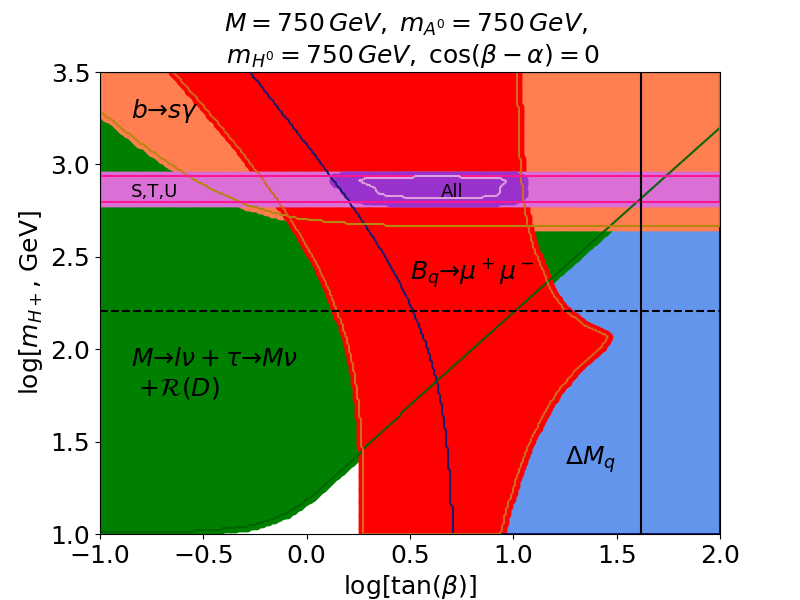
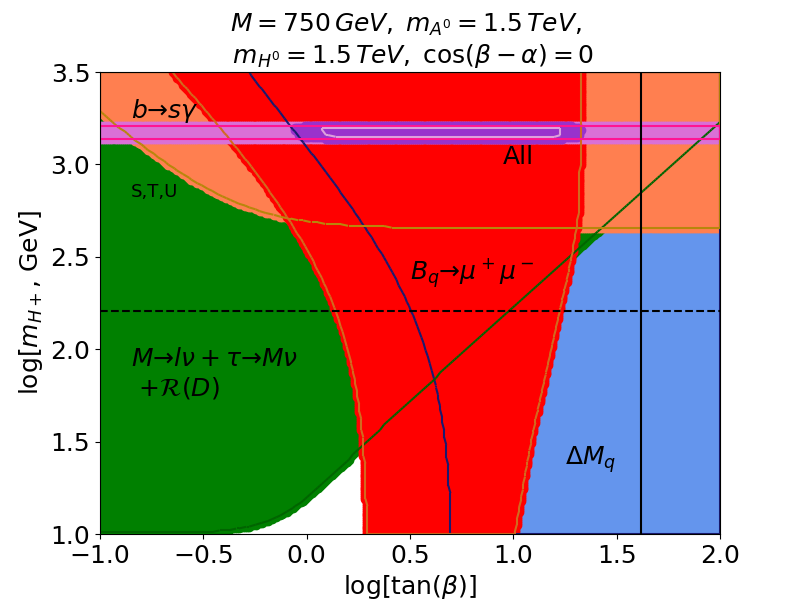
ups

diff --git a/global/functions.py b/global/functions.py
@@ -1,5 +1,6 @@
 from __future__ import division 
 import numpy as np
+from rdstarring import *
 from fitting import *
 from scipy.integrate import quad
 
@@ -676,10 +677,10 @@ def itera_global(
         bpls_exp,bpls_exp_error,dpls_exp,dpls_exp_error,dspls_exp,dspls_exp_error,
         bpmu,bpmu_err,dsmu,dsmu_err,bmix_exp,bmix_exp_error,bmixs_exp,bmixs_exp_error,
         kpi_exp,kpi_exp_error,tkpi_exp,tkpi_exp_error,
-        bsmu_exp,bsmu_exp_err,bdmu_exp,bdmu_exp_err,rd_exp,rd_exp_err,
+        bsmu_exp,bsmu_exp_err,bdmu_exp,bdmu_exp_err,rd_exp,rd_exp_err,rdst_exp,rdst_exp_err,
         gams_exp,gams_exp_error,gamc_exp,gamc_exp_error,gamu,gamu_err,
         mu,mu_err,md,md_err,mc,mc_err,ms,ms_err,mb,mb_err,mt,mt_err,mW,mW_err,
-        mbpls,mbpls_err,mdpls,mdpls_err,mdspls,mdspls_err,mbd,mbd_err,mbs,mbs_err,
+        mbpls,mbpls_err,mdpls,mdpls_err,mdspls,mdspls_err,mbd,mbd_err,mbs,mbs_err,mdst,mdst_err,
         mK,mK_err,mpi,mpi_err,mtau,mtau_err,mmu,mmu_err,
         Vud,Vud_err,Vus,Vus_err,Vub,Vub_err,Vcd,Vcd_err,Vcs,Vcs_err,Vcb,Vcb_err,Vtd,Vtd_err,Vts,Vts_err,Vtb,Vtb_err,
         etaB,etaB_err,f2Bd,f2Bd_err,f2Bs,f2Bs_err,fBs,fBs_err,Bbd,Bbd_err,BBs,BBs_err,
@@ -687,7 +688,7 @@ def itera_global(
         fKpi,fKpi_err,delt_kpi,delt_kpi_err,delt_tau,delt_tau_err,
         tbpls,tbpls_err,tdpls,tdpls_err,tdspls,tdspls_err,tbd,tbd_err,tbs,tbs_err,
         mub,hi,a,A0,ac,at,a_s,B0,bc,bt,bs,delt_mc,delt_mt,delt_as,alp_EM,C,C_err,
-        p,p_err,d,d_err,
+        p,p_err,ps,ps_err,d,d_err,r01,r01_err,r11,r11_err,r21,r21_err,
         delta_b,delta_d,
         wangle,wangle_err,lam_QCD,QCD_err,higgs,higgs_err,vev,vev_err,
         SOblique,SOblique_err,TOblique,TOblique_err,UOblique,UOblique_err,mZ,mZ_err):
@@ -826,8 +827,9 @@ def itera_global(
 
     ##### R(D) #####
     rd_exp_up,rd_exp_down = rd_exp+rd_exp_err[0],rd_exp+rd_exp_err[1]
-    av_rd = 0.5*(rd_exp_up+rd_exp_down)
-    sige_rd = sigma*(rd_exp_up-av_rd)
+    rds_exp_up,rds_exp_down = rdst_exp+rdst_exp_err[0],rdst_exp+rdst_exp_err[1]
+    av_rd,av_rds = 0.5*(rd_exp_up+rd_exp_down),0.5*(rds_exp_up+rds_exp_down)
+    sige_rd,sige_rds = sigma*(rd_exp_up-av_rd),sigma*(rds_exp_up-av_rds)
 
     #Oblique
     SOblique_up,SOblique_down=SOblique+SOblique_err[0],SOblique+SOblique_err[1]
@@ -919,12 +921,17 @@ def itera_global(
             bd_bool = ((av_bdmu >= mid_bdmu and mid_bdmu+sig_bdmu >= av_bdmu-sige_bdmu) or (av_bdmu <= mid_bdmu and mid_bdmu-sig_bdmu <= av_bdmu+sige_bdmu)) 
 
             ##### R(D) #####
+            expect_rds_up,expect_rds_down = error_rds(mbd,mbd_err,mdst,mdst_err,ps,ps_err,r01,r01_err,r11,r11_err,r21,r21_err,Vcb,Vcb_err,mmu,mmu_err,mtau,mtau_err,vev,vev_err,mc,mc_err,mb,mb_err,j,i)
+#            expect_rd_up,expect_rd_down = error_rdn(mbd,mbd_err,mdpls,mdpls_err,p,p_err,d,d_err,Vcb,Vcb_err,mmu,mmu_err,mtau,mtau_err,vev,vev_err,mc,mc_err,mb,mb_err,j,i)
             expect_rd = bsemi(mc,mb,mbd,mdpls,p,d,i,j)
             expect_rd_err = error_bsemi(mc,mc_err,mb,mb_err,mbd,mbd_err,mdpls,mdpls_err,p,p_err,d,d_err,i,j)
             expect_rd_up,expect_rd_down=expect_rd+expect_rd_err[0],expect_rd-expect_rd_err[1]
             mid_rd = 0.5*(expect_rd_up+expect_rd_down)
+            mid_rds = 0.5*(expect_rds_up+expect_rds_down)
             sig_rd = sigma*(expect_rd_up-mid_rd)
+            sig_rds = sigma*(expect_rds_up-mid_rds)
             rd_bool = ((av_rd >= mid_rd and mid_rd+sig_rd >= av_rd-sige_rd) or (av_rd <= mid_rd and mid_rd-sig_rd <= av_rd+sige_rd)) 
+#            rds_bool = ((av_rds >= mid_rds and mid_rds+sig_rds >= av_rds-sige_rds) or (av_rds <= mid_rds and mid_rds-sig_rds <= av_rds+sige_rds)) 
 
             #Oblique
             expect_SOblique=S2HDMofAlphaBeta (i,mA0,mH0,alph,np.arctan(j),mW,mZ,higgs,Gf,alp_EM,wangle)
@@ -949,12 +956,12 @@ def itera_global(
             UOblique_bool=((av_UOblique>=mid_UOblique and mid_UOblique>=av_UOblique-sige_UOblique) or (av_UOblique<=mid_UOblique and mid_UOblique<=av_UOblique+sige_UOblique))
 
             ##### (SEMI-)LEPTONICS #####
-            if bpls_bool and dpls_bool and dspls_bool and kpi_bool and tkpi_bool and bpmu_bool and dsmu_bool and rd_bool:
+            if bpls_bool and dpls_bool and dspls_bool and kpi_bool and tkpi_bool and bpmu_bool and dsmu_bool and rd_bool:# and rds_bool:
                 i_log, j_log = np.log10(i), np.log10(j)
                 mHl_loc = np.append(mHl_loc,i_log)
                 tanbl_loc = np.append(tanbl_loc,j_log)
-                chi_lij = chisq_simp([av_b,av_d,av_ds,av_k,av_t,av_bm,av_dm,av_rd],[mid_b,mid_d,mid_ds,mid_k,mid_t,mid_bmu,mid_dm,mid_rd],[sige_b,sige_d,sige_ds,sige_k,sige_t,sige_bm,sige_dm,sige_rd],[sig_b,sig_d,sig_ds,sig_k,sig_t,sig_bmu,sig_dm,sig_rd])
-#                chi_lij = chisq_simp([av_b,av_d,av_ds,av_k,av_t,av_bm,av_dm],[mid_b,mid_d,mid_ds,mid_k,mid_t,mid_bmu,mid_dm],[sige_b,sige_d,sige_ds,sige_k,sige_t,sige_bm,sige_dm],[sig_b,sig_d,sig_ds,sig_k,sig_t,sig_bmu,sig_dm])
+                chi_lij = chisq_simp([av_b,av_d,av_ds,av_k,av_t,av_bm,av_dm,av_rd,av_rds],[mid_b,mid_d,mid_ds,mid_k,mid_t,mid_bmu,mid_dm,mid_rd,mid_rds],[sige_b,sige_d,sige_ds,sige_k,sige_t,sige_bm,sige_dm,sige_rd,sige_rds],[sig_b,sig_d,sig_ds,sig_k,sig_t,sig_bmu,sig_dm,sig_rd,sig_rds])
+                #chi_lij = chisq_simp([av_b,av_d,av_ds,av_k,av_t,av_bm,av_dm,av_rd],[mid_b,mid_d,mid_ds,mid_k,mid_t,mid_bmu,mid_dm,mid_rd],[sige_b,sige_d,sige_ds,sige_k,sige_t,sige_bm,sige_dm,sige_rd],[sig_b,sig_d,sig_ds,sig_k,sig_t,sig_bmu,sig_dm,sig_rd])
                 chi_ls = np.append(chi_ls,chi_lij)
             
             ##### MIXING #####
@@ -1012,15 +1019,15 @@ def itera_global(
                 chi_mus = np.append(chi_mus,chi_uij)
 
             ##### GLOBAL #####
-            if bpls_bool and dpls_bool and dspls_bool and bmix_bool and kpi_bool and tkpi_bool and gam_bool and bs_bool and bd_bool and rd_bool and bpmu_bool and dsmu_bool:# and SOblique_bool and TOblique_bool and UOblique_bool:
+            if bpls_bool and dpls_bool and dspls_bool and bmix_bool and kpi_bool and tkpi_bool and gam_bool and bs_bool and bd_bool and rd_bool and bpmu_bool and dsmu_bool and SOblique_bool and TOblique_bool and UOblique_bool:# and rds_bool:
                 i_log, j_log = np.log10(i), np.log10(j)
                 mHa2_loc = np.append(mHa2_loc,i_log)
                 tanba2_loc = np.append(tanba2_loc,j_log)
                 chi_2ij = chisq_simp(
-                        [av_b,av_d,av_ds,av_k,av_t,av_bmix,av_bmixs,av_g,av_bsmu,av_bdmu,av_rd,av_bm,av_dm],
-                        [mid_b,mid_d,mid_ds,mid_k,mid_t,mid_bm,mid_bms,mid_g,mid_bsmu,mid_bdmu,mid_rd,mid_bmu,mid_dm],
-                        [sige_b,sige_d,sige_ds,sige_k,sige_t,sige_bmix,sige_bmixs,sige_g,sige_bsmu,sige_bdmu,sige_rd,sige_bm,sige_dm],
-                        [sig_b,sig_d,sig_ds,sig_k,sig_t,sig_bm,sig_bms,sig_g,sig_bsmu,sig_bdmu,sig_rd,sig_bmu,sig_dm])
+                        [av_b,av_d,av_ds,av_k,av_t,av_bmix,av_bmixs,av_g,av_bsmu,av_bdmu,av_rd,av_bm,av_dm, av_SOblique, av_TOblique, av_UOblique,av_rds],
+                        [mid_b,mid_d,mid_ds,mid_k,mid_t,mid_bm,mid_bms,mid_g,mid_bsmu,mid_bdmu,mid_rd,mid_bmu,mid_dm,mid_SOblique,mid_TOblique,mid_UOblique,mid_rds],
+                        [sige_b,sige_d,sige_ds,sige_k,sige_t,sige_bmix,sige_bmixs,sige_g,sige_bsmu,sige_bdmu,sige_rd,sige_bm,sige_dm,sige_SOblique,sige_TOblique,sige_UOblique,sige_rds],
+                        [sig_b,sig_d,sig_ds,sig_k,sig_t,sig_bm,sig_bms,sig_g,sig_bsmu,sig_bdmu,sig_rd,sig_bmu,sig_dm,sig_SOblique,sig_TOblique,sig_UOblique,sig_rds])
 #                chi_2ij = chisq_simp(
 #                        [av_b,av_d,av_ds,av_k,av_t,av_bmix,av_bmixs,av_g,av_bsmu,av_bdmu,av_rd,av_bm,av_dm, av_SOblique, av_TOblique, av_UOblique],
 #                        [mid_b,mid_d,mid_ds,mid_k,mid_t,mid_bm,mid_bms,mid_g,mid_bsmu,mid_bdmu,mid_rd,mid_bmu,mid_dm,mid_SOblique,mid_TOblique,mid_UOblique],

diff --git a/global/global.py b/global/global.py
@@ -151,10 +151,10 @@ mHs, tanbs, chis, chi_2 = itera_global(
         bplus_exp,bplus_err_exp,dplus_exp,dplus_err_exp,dsplus_exp,dsplus_err_exp,
         bplusmu_exp,bplusmu_err_exp,dsmu_exp,dsmu_err_exp,delt_md,delt_md_err,delt_ms,delt_ms_err,
         kpi_exp,kpi_exp_err,kpitau_exp,kpitau_exp_err,
-        bs_exp,bs_exp_err,bd_exp,bd_exp_err,rd_exp,rd_exp_err,
+        bs_exp,bs_exp_err,bd_exp,bd_exp_err,rd_exp,rd_exp_err,rdst_exp,rdst_exp_err,
         branchs,branchs_err,branch_c,branchc_err,gamu,gamu_err,
         m_u,m_u_err,m_d,m_d_err,m_c,m_c_err,m_s,m_s_err,m_b,m_b_err,mt,mt_err,mW,mW_err,
-        m_bplus,m_bplus_err,m_dplus,m_dplus_err,m_dsplus,m_dsplus_err,mBd,mBd_err,mBs,mBs_err,
+        m_bplus,m_bplus_err,m_dplus,m_dplus_err,m_dsplus,m_dsplus_err,mBd,mBd_err,mBs,mBs_err,m_dstar,m_dstar_err,
         m_K,m_K_err,m_pi,m_pi_err,m_tau,m_tau_err,m_mu,m_mu_err,
         Vud,Vud_err,Vus,Vus_err,Vub,Vub_err,Vcd,Vcd_err,Vcs,Vcs_err,Vcb,Vcb_err,Vtd,Vtd_err,Vts,Vts_err,Vtb,Vtb_err,
         etaB,etaB_err,f2Bd,f2Bd_err,f2Bs,f2Bs_err,fBs,fBs_err,BBd,BBd_err,BBs,BBs_err,
@@ -162,7 +162,7 @@ mHs, tanbs, chis, chi_2 = itera_global(
         f_Kpi,f_Kpi_err,delt_kpi,delt_kpi_err,delt_kpitau,delt_kpitau_err,
         tau_bplus,tau_bplus_err,tau_dplus,tau_dplus_err,tau_dsplus,tau_dsplus_err,taubd,taubd_err,taubs,taubs_err,
         mub,hi,a,A0,ac,at,a_s,B0,bc,bt,b_s,delt_mc,delt_mt,delt_as,1/137,C,C_err,
-        rho,rho_err,delt_rd,delt_rd_err,
+        rho,rho_err,rhod,rhod_err,delt_rd,delt_rd_err,r01,r01_err,r11,r11_err,r21,r21_err,
         delta_b,delta_d,wangle,wangle_err,lambda_QCD,QCD_err,higgs,higgs_err,vev,vev_err,
         SOblique,SOblique_err,TOblique,TOblique_err,UOblique,UOblique_err,mZ,mZ_err)
 
@@ -173,7 +173,7 @@ tl, tb, tg, ta, tmu, tl2, tS, tT, tU = tanbs
 chi_ls, chi_ms, chi_gs, chi_as, chi_mus, chi_2s, chi_Ss, chi_Ts, chi_Us = chis #all chisq values
 
 m1,m2 = 2.30,5.99 #different confidence levels for chisq fit
-nu = 11 # degrees of freedom
+nu = 15 # degrees of freedom
 
 # returns mH, tanb values, and 'edges' which is to draw around the perimeters of regions
 hchi_leps, tchi_leps, lep_edges_e = chi_del(min(chi_ls),chi_ls,hl,tl,m2) #chisq fit to 95% CL
@@ -190,13 +190,13 @@ hchi_mu2, tchi_mu2, mu_edges = chi_del(min(chi_mus),chi_mus,hmu,tmu,m1)
 
 #hchi_S, tchi_S, S_edges_e = chi_del(min(chi_Ss),chi_Ss,hS,tS,m2)
 #hchi_S2, tchi_S2, S_edges = chi_del(min(chi_Ss),chi_Ss,hS,tS,m1)
-#
+
 #hchi_T, tchi_T, T_edges_e = chi_del(min(chi_Ts),chi_Ts,hT,tT,m2)
 #hchi_T2, tchi_T2, T_edges = chi_del(min(chi_Ts),chi_Ts,hT,tT,m1)
-#
-#hchi_U, tchi_U, U_edges_e = chi_del(min(chi_Us),chi_Us,hU,tU,m2)
-#hchi_U2, tchi_U2, U_edges = chi_del(min(chi_Us),chi_Us,hU,tU,m1)
-#
+
+hchi_U, tchi_U, U_edges_e = chi_del(min(chi_Us),chi_Us,hU,tU,m2)
+hchi_U2, tchi_U2, U_edges = chi_del(min(chi_Us),chi_Us,hU,tU,m1)
+
 hchi_2, tchi_2, two_edges_e = chi_del(chi_2[0],chi_2s,hl2,tl2,m2)
 hchi_22, tchi_22, two_edges = chi_del(chi_2[0],chi_2s,hl2,tl2,m1)
 
@@ -208,45 +208,43 @@ print chi_2
 
 p_val, p_err = p_vals(chi_2[0],nu)
 print "p-value for global fit with ", nu," degrees of freedom is: ", "{:.1%}".format(p_val)#, " +/- ", p_err
-os.system('play draco.mp3')
-quit()
+
 # plotting! scatter plots for regions, then the for loops plot out the outline
 # all regions plotted to 95% CL, and their lines plotted to this too, but then the 1 sigma everything region's border is plotted 
 plt.figure(figsize=(8,6))
-#plt.scatter(tchi_mix,hchi_mix,c='cornflowerblue')
-#for i, j in mix_edges_e[0]: 
-#    plt.plot(mix_edges_e[1][[i,j],0],mix_edges_e[1][[i,j],1],c='midnightblue',linestyle='--')
-#plt.scatter(tchi_leps,hchi_leps,c='green')
-#for i, j in lep_edges_e[0]:
-#    plt.plot(lep_edges_e[1][[i,j],0],lep_edges_e[1][[i,j],1],c='darkgreen',linestyle='--')
-#plt.scatter(tchi_gam,hchi_gam,c='coral')
-#for i, j in gam_edges_e[0]:
-#    plt.plot(gam_edges_e[1][[i,j],0],gam_edges_e[1][[i,j],1],c='darkgoldenrod',linestyle='--')
+plt.scatter(tchi_mix,hchi_mix,c='cornflowerblue')
+for i, j in mix_edges_e[0]: 
+    plt.plot(mix_edges_e[1][[i,j],0],mix_edges_e[1][[i,j],1],c='midnightblue',linestyle='--')
+plt.scatter(tchi_leps,hchi_leps,c='green')
+for i, j in lep_edges_e[0]:
+    plt.plot(lep_edges_e[1][[i,j],0],lep_edges_e[1][[i,j],1],c='darkgreen',linestyle='--')
+plt.scatter(tchi_gam,hchi_gam,c='coral')
+for i, j in gam_edges_e[0]:
+    plt.plot(gam_edges_e[1][[i,j],0],gam_edges_e[1][[i,j],1],c='darkgoldenrod',linestyle='--')
 plt.scatter(tchi_mu,hchi_mu,c='red')
 for i, j in mu_edges_e[0]:
     plt.plot(mu_edges_e[1][[i,j],0],mu_edges_e[1][[i,j],1],c='chocolate',linestyle='--')
-#plt.scatter(tchi_U,hchi_U,c='orchid')
-#for i, j in U_edges_e[0]:
-#    plt.plot(U_edges_e[1][[i,j],0],U_edges_e[1][[i,j],1],c='deeppink',linestyle='--')
-#plt.scatter(tchi_2,hchi_2,c='darkorchid')
-#for i, j in two_edges[0]:
-#    plt.plot(two_edges[1][[i,j],0],two_edges[1][[i,j],1],c='plum',linestyle='--')
+plt.scatter(tchi_U,hchi_U,c='orchid')
+for i, j in U_edges_e[0]:
+    plt.plot(U_edges_e[1][[i,j],0],U_edges_e[1][[i,j],1],c='deeppink',linestyle='--')
+plt.scatter(tchi_2,hchi_2,c='darkorchid')
+for i, j in two_edges[0]:
+    plt.plot(two_edges[1][[i,j],0],two_edges[1][[i,j],1],c='plum',linestyle='--')
 plt.axis([-1,2,1,3.5])
 plt.ylabel('$\\log[m_{H+}$, GeV]',fontsize=18)
 plt.xlabel('$\\log[\\tan(\\beta)]$',fontsize=18)
 plt.xticks(fontsize=18)
 plt.yticks(fontsize=18)
-#plt.axvline(x=np.log10(mt/m_b),color='black')
-#plt.axhline(y=np.log10(160),color='black',linestyle='--')
-#plt.annotate('$M\\to l\\nu+\\tau\\to M\\nu$ \n $+ \\mathcal{R}(D)$',xy=(0.05,0.3),xycoords='axes fraction',fontsize=18)
-#plt.annotate('$M\\to l\\nu+\\tau\\to M\\nu$',xy=(0.05,0.3),xycoords='axes fraction',fontsize=18)
-#plt.annotate('$\\Delta M_q$',xy=(0.75,0.15),xycoords='axes fraction',fontsize=18)
-#plt.annotate('$b\\to s\\gamma$',xy=(0.05,0.9),xycoords='axes fraction',fontsize=18)
-#plt.annotate('All',xy=(0.65,0.8),xycoords='axes fraction',fontsize=18)
-#plt.annotate('S,T,U',xy=(0.05,0.73),xycoords='axes fraction',fontsize=13)
-#plt.annotate('$B_q \\to \\mu^+\\mu^-$',xy=(0.5,0.55),xycoords='axes fraction',fontsize=18)
-#plt.title('$M = 750\,GeV,\; m_{A^0} = 750\,GeV,$ \n $m_{H^0} = 750\,GeV,\; \\cos(\\beta-\\alpha) = 0$',fontsize=18)
-plt.title('$M = 750\,GeV,\; m_{H^0} = 1.5\,TeV,\; \\cos(\\beta-\\alpha) = 0$',fontsize=18)
-plt.savefig('bmu3.png')
+plt.axvline(x=np.log10(mt/m_b),color='black')
+plt.axhline(y=np.log10(160),color='black',linestyle='--')
+plt.annotate('$M\\to l\\nu+\\tau\\to M\\nu$ \n $+ \\mathcal{R}(D)$',xy=(0.05,0.3),xycoords='axes fraction',fontsize=18)
+#plt.annotate('$M\\to l\\nu+\\tau\\to M\\nu$ \n $+ \\mathcal{R}(D^{(*)})$',xy=(0.05,0.3),xycoords='axes fraction',fontsize=18)
+plt.annotate('$\\Delta M_q$',xy=(0.75,0.15),xycoords='axes fraction',fontsize=18)
+plt.annotate('$b\\to s\\gamma$',xy=(0.05,0.9),xycoords='axes fraction',fontsize=18)
+plt.annotate('All',xy=(0.65,0.8),xycoords='axes fraction',fontsize=18)
+plt.annotate('S,T,U',xy=(0.05,0.73),xycoords='axes fraction',fontsize=13)
+plt.annotate('$B_q \\to \\mu^+\\mu^-$',xy=(0.5,0.55),xycoords='axes fraction',fontsize=18)
+plt.title('$M = 750\,GeV,\; m_{A^0} = 1.5\,TeV,$ \n $m_{H^0} = 1.5\,TeV,\; \\cos(\\beta-\\alpha) = 0$',fontsize=18)
+plt.savefig('global_test2.png')
 #plt.show()
-os.system('play gumdrops.mp3')
+os.system('play draco.mp3')

diff --git a/global/rdstarring.py b/global/rdstarring.py
@@ -278,9 +278,9 @@ def itera_rdn(mBs,mBs_err,mD,mD_err,rhod,rhod_err,delta,delta_err,Vcb,Vcb_err,mm
 
     return mH_loc, tanb_loc, chi_rds, chi_rmin
 
-def itera_rda(mBs,mBs_err,mD,mD_err,mDs,mDs_err,rhod,rhod_err,rhods,rhods_err,r01,r01_err,r11,r11_err,r21,r21_err,delta,delta_err,Vcb,Vcb_err,mmu,mmu_err,mtau,mtau_err,vev,vev_err,mc,mc_err,mb,mb_err,rde,rde_err,rdste,rdste_err):
+def itera_rda(mBs,mBs_err,mD,mD_err,mDs,mDs_err,rhod,rhod_err,r01,r01_err,r11,r11_err,r21,r21_err,delta,delta_err,Vcb,Vcb_err,mmu,mmu_err,mtau,mtau_err,vev,vev_err,mc,mc_err,mb,mb_err,rde,rde_err,rdste,rdste_err):
 
-    sigma = 3
+    sigma = 5
     rde_u,rde_d = rde+rde_err[0],rde+rde_err[1]
     rdste_u,rdste_d = rdste+rdste_err[0],rdste+rdste_err[1]
     av_rd = 0.5*(rde_u+rde_d)
@@ -297,7 +297,7 @@ def itera_rda(mBs,mBs_err,mD,mD_err,mDs,mDs_err,rhod,rhod_err,rhods,rhods_err,r0
     chi_rmin,chist_rmin,chia_rmin = 1000,1000,1000
     for i in mH_range:
         for j in tanb_range:
-            st_branch_up, st_branch_down = error_rds(mBs,mBs_err,mDs,mDs_err,rhods,rhods_err,r01,r01_err,r11,r11_err,r21,r21_err,Vcb,Vcb_err,mmu,mmu_err,mtau,mtau_err,vev,vev_err,mc,mc_err,mb,mb_err,j,i)
+            st_branch_up, st_branch_down = error_rds(mBs,mBs_err,mDs,mDs_err,rhod,rhod_err,r01,r01_err,r11,r11_err,r21,r21_err,Vcb,Vcb_err,mmu,mmu_err,mtau,mtau_err,vev,vev_err,mc,mc_err,mb,mb_err,j,i)
             expect_branch_up, expect_branch_down = error_rdn(mBs,mBs_err,mD,mD_err,rhod,rhod_err,delta,delta_err,Vcb,Vcb_err,mmu,mmu_err,mtau,mtau_err,vev,vev_err,mc,mc_err,mb,mb_err,j,i)
             mid_rd = 0.5*(expect_branch_up+expect_branch_down)
             mid_rdst = 0.5*(st_branch_up+st_branch_down)

diff --git a/calcs/branching.py b/calcs/branching.py
@@ -219,7 +219,7 @@ delta_b,delta_d = 0.982,0.99*0.982
 
 #hrdst, trdst, chi_rdsst, chi_stmin = itera_rds(m_Brd,m_Brd_err,m_dstar,m_dstar_err,rhod,rhod_err,r01,r01_err,r11,r11_err,r21,r21_err,Vcb,Vcb_err,m_mu,m_mu_err,m_tau,m_tau_err,vev,vev_err,m_c,m_c_err,m_b,m_b_err,rdst_exp,rdst_exp_err)
 # hrdn, trdn, chi_rdn, chi_nmin = itera_rdn(m_Brd,m_Brd_err,m_dplus,m_dplus_err,rhod,rhod_err,delta,delta_err,Vcb,Vcb_err,m_mu,m_mu_err,m_tau,m_tau_err,vev,vev_err,m_c,m_c_err,m_b,m_b_err,rd_exp,rd_exp_err)
-hrdn, trdn, chi_rdn, chi_nmin, hrdst, trdst, chi_rdst, chi_stmin, ha, ta, chia, am = itera_rda(m_Brd,m_Brd_err,m_dplus,m_dplus_err,m_dstar,m_dstar_err,rhod,rhod_err,r01,r01_err,r11,r11_err,r21,r21_err,delta,delta_err,Vcb,Vcb_err,m_mu,m_mu_err,m_tau,m_tau_err,vev,vev_err,m_c,m_c_err,m_b,m_b_err,rd_exp,rd_exp_err,rdst_exp,rdst_exp_err)
+hrdn, trdn, chi_rdn, chi_nmin, hrdst, trdst, chi_rdst, chi_stmin, ha, ta, chia, am = itera_rda(m_Brd,m_Brd_err,m_dplus,m_dplus_err,m_dstar,m_dstar_err,rho,rho_err,rhod,rhod_err,r01,r01_err,r11,r11_err,r21,r21_err,delta,delta_err,Vcb,Vcb_err,m_mu,m_mu_err,m_tau,m_tau_err,vev,vev_err,m_c,m_c_err,m_b,m_b_err,rd_exp,rd_exp_err,rdst_exp,rdst_exp_err)
 
 m2,m1=5.99,2.30
 hchi_rd, tchi_rd, rd_edges_e = chi_del(chi_nmin,chi_rdn,hrdn,trdn,m2)
@@ -242,7 +242,7 @@ plt.xlabel('$\\log[\\tan(\\beta)]$',fontsize=18)
 plt.xticks(fontsize=18)
 plt.yticks(fontsize=18)
 plt.axis([-1,2,0,3.5])
-plt.savefig('rd_both5sig2.png')
+plt.savefig('rd_both3sig.png')
 #plt.show()
 os.system('play draco.mp3')
 quit()
